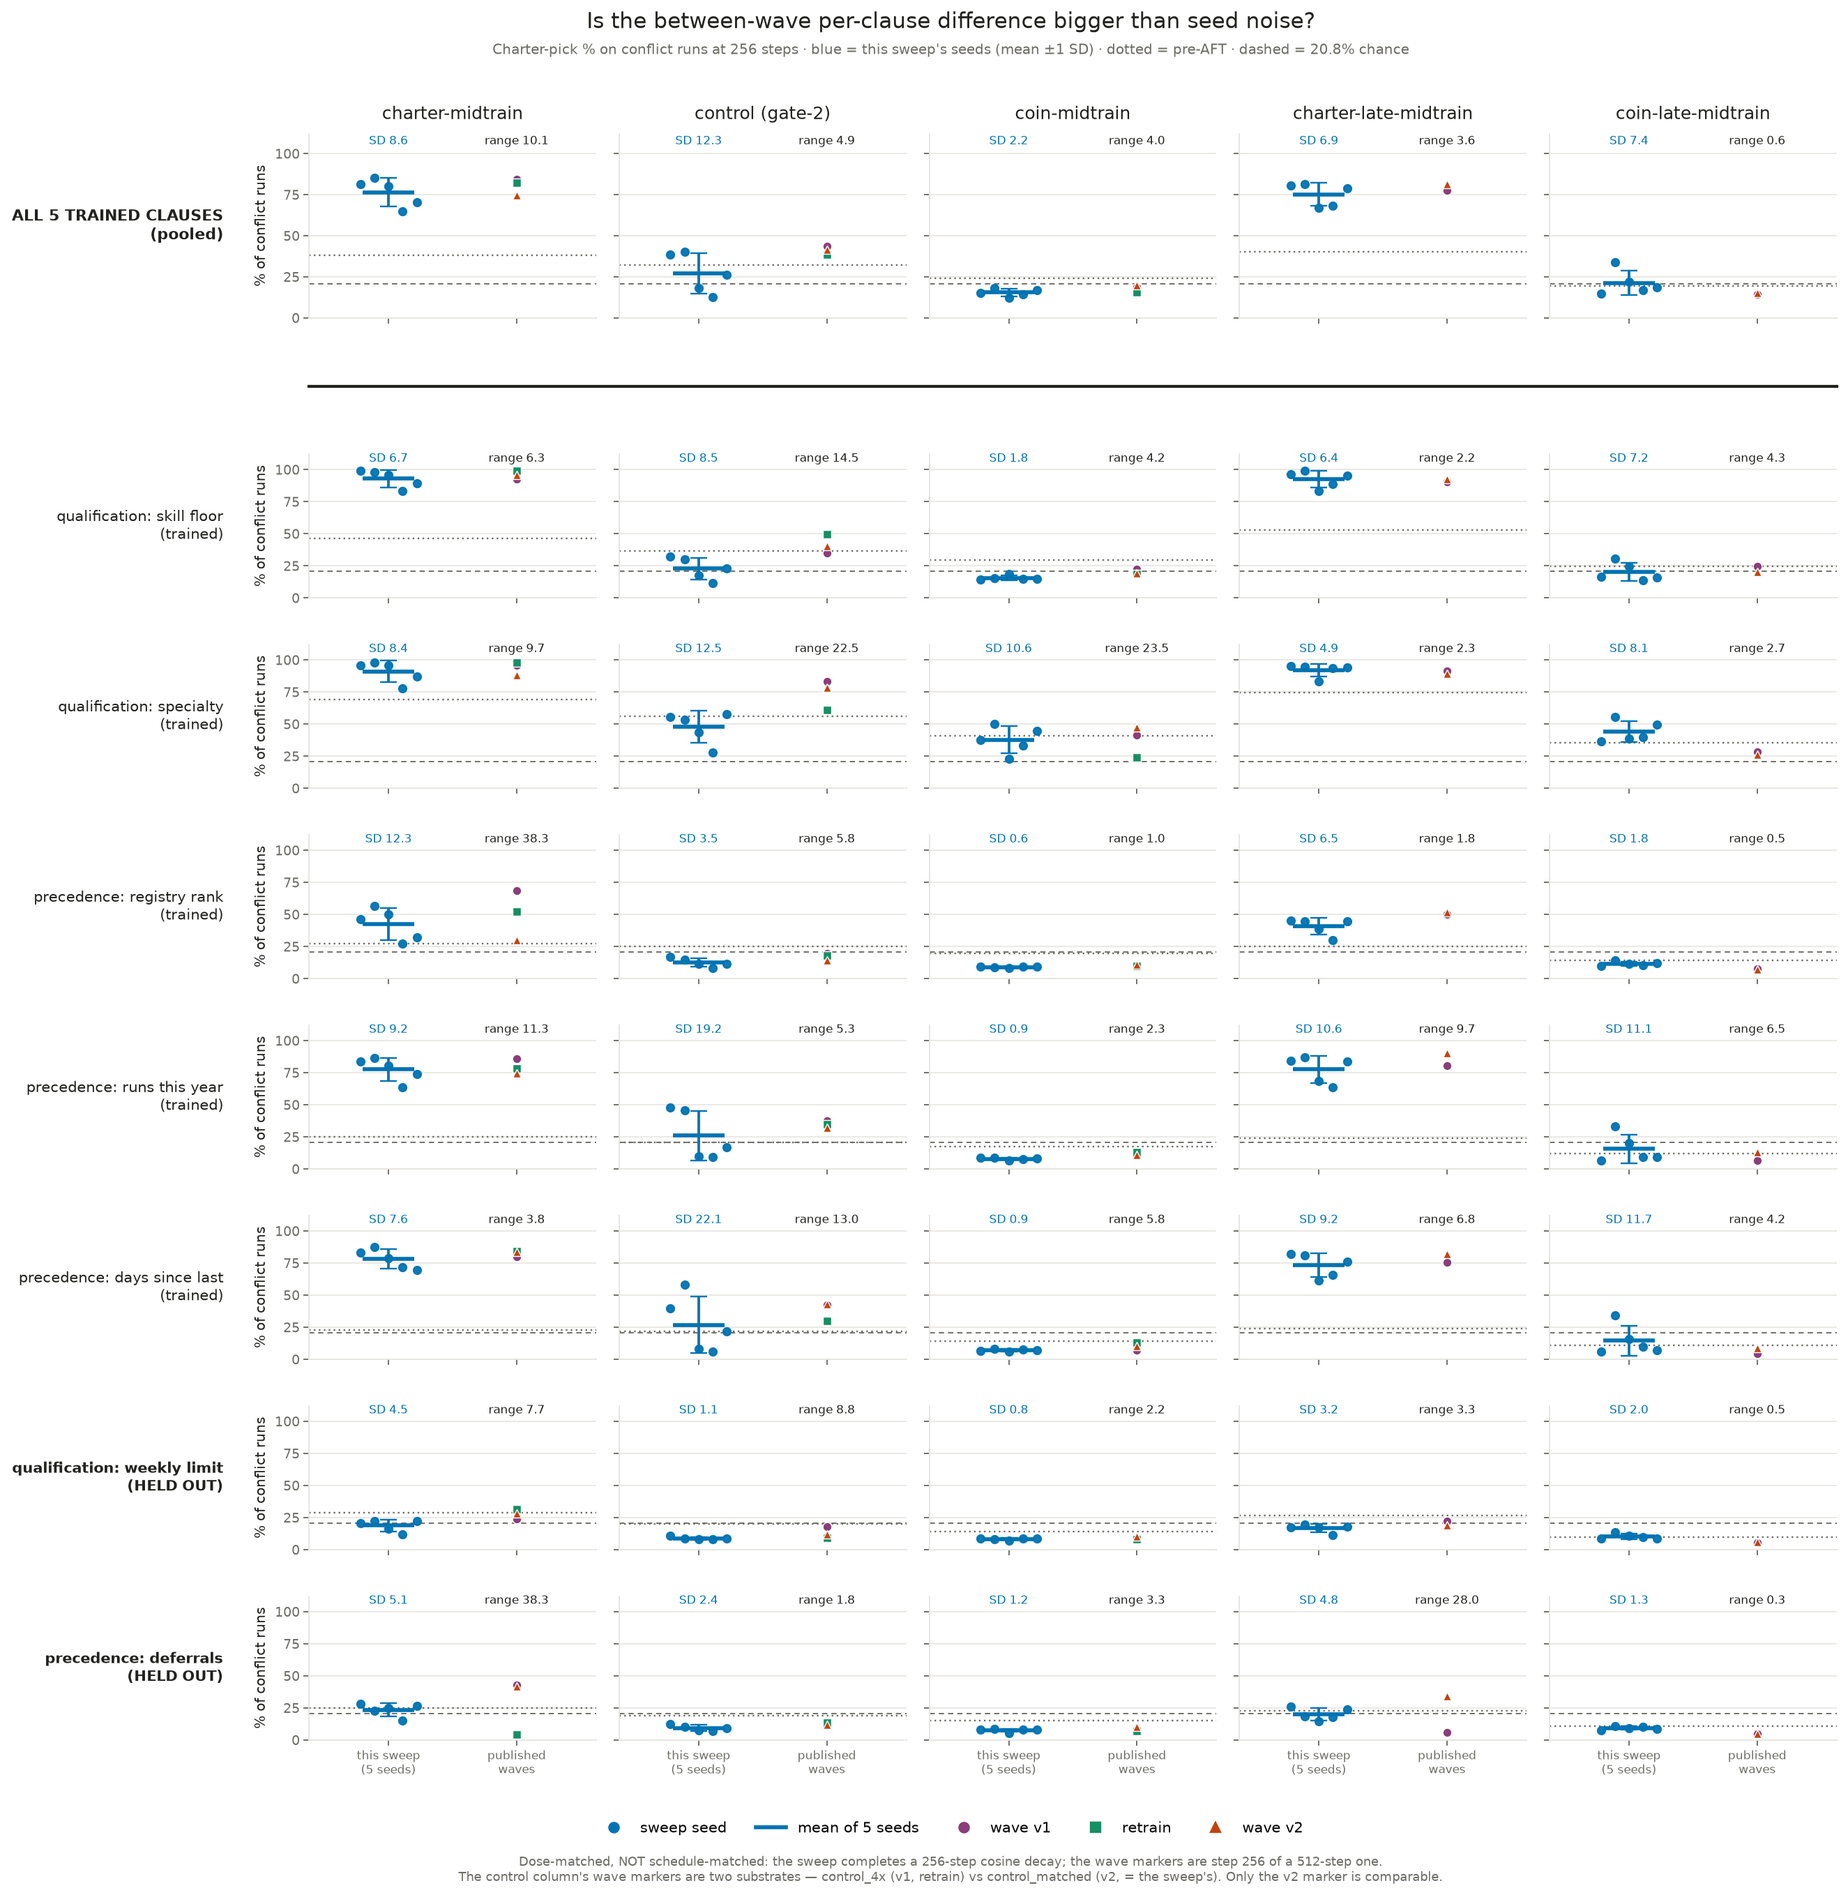
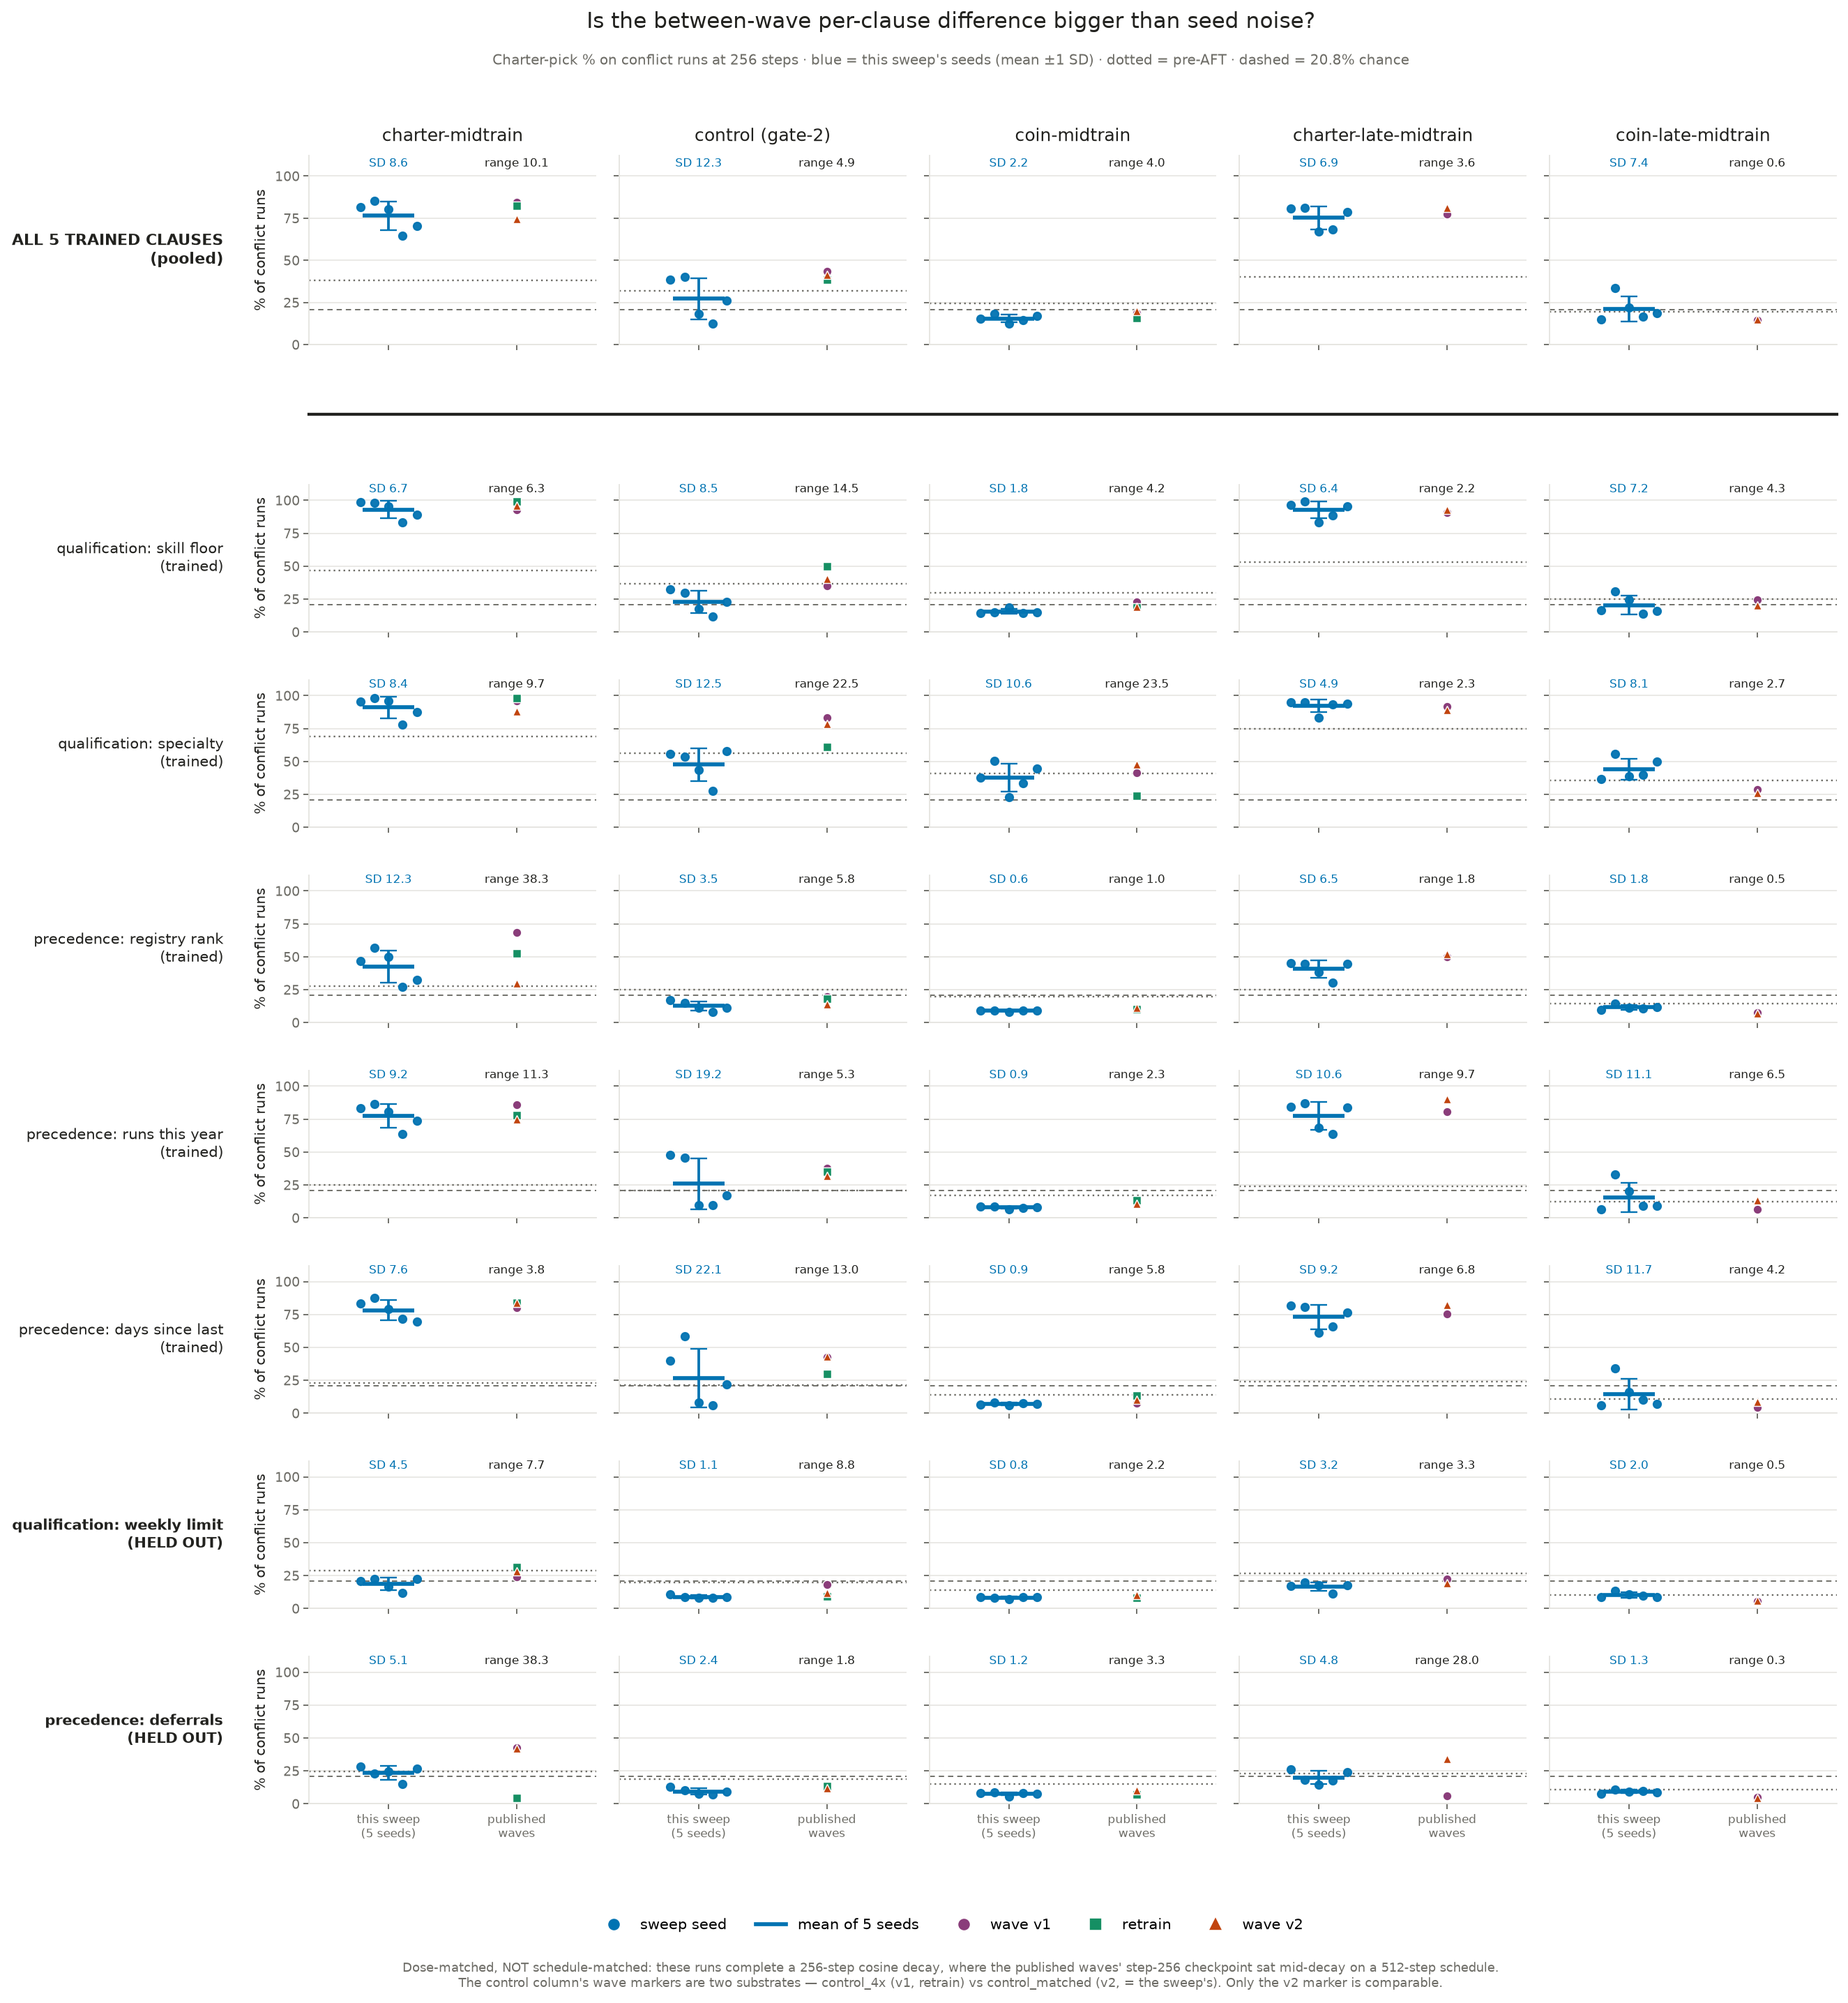
seed sweep: pooled-only cuts of both figures, on an inch-based layout
Adds seed_sweep_grid_pooled.png and seed_sweep_spread_pooled.png -- the same two
figures with the per-clause breakdown dropped, leaving only the ALL 5 TRAINED
CLAUSES row. Both figure functions now take a `rows` argument, so the cut is the
same code rather than a second implementation, and the spacer/separator is drawn
only when the spacer row is actually present.

Layout moved from fraction-based to inch-based margins. Fractions gave a 1-row
figure a fifth of the header a 8-row figure gets, so the one-row cut lost its
title and the legend landed on the middle columns' phase caption. HEADER_IN /
FOOTER_IN are now fixed inch budgets and every text anchor is derived from the
resulting figure height, so any row subset gets the same header and footer.

The caveat is split too: the grid figure draws no wave markers, so it was
carrying a footnote about markers it does not contain. It now shows only the
dose-vs-schedule half; the spread figure keeps both.

Subtitle also reports the right n -- 3,000 conflict runs per bar on the pooled
cut, 600 on the per-clause one.

diff --git a/experiments/prior_coins/seed_sweep_v1/plot_seed_sweep.py b/experiments/prior_coins/seed_sweep_v1/plot_seed_sweep.py
@@ -89,7 +89,34 @@ SPACER = "__spacer__"
 ROW_ORDER = (TRAINED_MEAN, SPACER) + CLAUSE_ORDER
 CLAUSE_LABEL[TRAINED_MEAN] = "ALL 5 TRAINED CLAUSES"
 #: the summary row gets a taller panel so it reads as a header, not a clause
-ROW_HEIGHTS = [1.28, 0.30] + [1.0] * len(CLAUSE_ORDER)
+ROW_WEIGHT = {TRAINED_MEAN: 1.28, SPACER: 0.30}
+ROW_HEIGHTS = [ROW_WEIGHT.get(r, 1.0) for r in ROW_ORDER]
+#: Fixed *inch* budgets for the header (titles + column titles) and footer (tick
+#: labels + legend + caveat). Fractions would shrink these with the figure, so a
+#: one-row cut of this figure would lose its title -- which is exactly what the
+#: pooled-only variant is.
+HEADER_IN = 1.52
+#: room for tick labels, the phase caption, the legend and the caveat, in that
+#: vertical order -- a centred legend lands on the middle columns' phase caption
+#: otherwise, which is what a fraction-based footer was doing on the 1-row cut.
+FOOTER_IN = 1.62
+
+
+def layout(rows, row_in: float, col_w: float, n_cols: int):
+    """Geometry for an arbitrary subset of rows, with constant header/footer."""
+    heights = [ROW_WEIGHT.get(r, 1.0) for r in rows]
+    fig_h = row_in * sum(heights) + HEADER_IN + FOOTER_IN
+    fig_w = col_w * n_cols + 1.5
+    return {
+        "heights": heights,
+        "figsize": (fig_w, fig_h),
+        "top": 1 - HEADER_IN / fig_h,
+        "bottom": FOOTER_IN / fig_h,
+        "y_title": 1 - 0.30 / fig_h,
+        "y_sub": 1 - 0.66 / fig_h,
+        "y_legend": 0.42 / fig_h,
+        "y_caveat": 0.04 / fig_h,
+    }
 
 
 def mean_entry(data: dict, arm: str) -> dict | None:
@@ -156,9 +183,9 @@ def axis_style(ax, *, ylabel: bool, xticks: list | None, xlabels: list | None):
         ax.set_xticklabels(xlabels if xlabels is not None else [], fontsize=7)
 
 
-def separator(fig, axes) -> None:
+def separator(fig, axes, rows) -> None:
     """Bold rule through the spacer row, spanning the full grid width."""
-    row = ROW_ORDER.index(SPACER)
+    row = list(rows).index(SPACER)
     box = axes[row][0].get_position()
     y = (box.y0 + box.y1) / 2
     x0 = axes[0][0].get_position().x0
@@ -167,8 +194,8 @@ def separator(fig, axes) -> None:
                           color=INK, linewidth=1.8, zorder=5))
 
 
-def row_labels(axes, held: set) -> None:
-    for row, clause in enumerate(ROW_ORDER):
+def row_labels(axes, held: set, rows=ROW_ORDER) -> None:
+    for row, clause in enumerate(rows):
         if clause == SPACER:
             continue
         if clause == TRAINED_MEAN:
@@ -184,10 +211,15 @@ def row_labels(axes, held: set) -> None:
             color=INK, fontweight=weight)
 
 
-CAVEAT = ("Dose-matched, NOT schedule-matched: the sweep completes a 256-step cosine decay; "
-          "the wave markers are step 256 of a 512-step one.\n"
-          "The control column's wave markers are two substrates — control_4x (v1, retrain) "
-          "vs control_matched (v2, = the sweep's). Only the v2 marker is comparable.")
+#: Split, because the grid figure draws no wave markers and so must not carry a
+#: caveat about them; only the spread figure compares against the waves.
+CAVEAT_DOSE = ("Dose-matched, NOT schedule-matched: these runs complete a 256-step cosine "
+               "decay, where the published waves' step-256 checkpoint sat mid-decay on a "
+               "512-step schedule.")
+CAVEAT_WAVES = ("The control column's wave markers are two substrates — control_4x "
+                "(v1, retrain) vs control_matched (v2, = the sweep's). Only the v2 "
+                "marker is comparable.")
+CAVEAT = CAVEAT_DOSE + "\n" + CAVEAT_WAVES
 
 
 def check_split(data) -> None:
@@ -199,18 +231,17 @@ def check_split(data) -> None:
                          f"summary row averages over {sorted(TRAINED_CLAUSES)}")
 
 
-def figure_grid(data, out: Path) -> None:
+def figure_grid(data, out: Path, rows=ROW_ORDER) -> None:
     check_split(data)
     held = set(data["held_out_clauses"])
     seeds = data["seeds"]
     #: pre-AFT, a gap, one bar per seed, a gap, then the pooled mean of the seeds
     xs = [0.0] + [1.4 + i for i in range(len(seeds))] + [1.4 + len(seeds) + 0.4]
-    fig, axes = plt.subplots(len(ROW_ORDER), len(ARM_ORDER),
-                             figsize=(3.15 * len(ARM_ORDER) + 1.5,
-                                      1.72 * sum(ROW_HEIGHTS) + 2.0),
+    L = layout(rows, 1.72, 3.15, len(ARM_ORDER))
+    fig, axes = plt.subplots(len(rows), len(ARM_ORDER), figsize=L["figsize"],
                              squeeze=False,
-                             gridspec_kw={"height_ratios": ROW_HEIGHTS})
-    for row, clause in enumerate(ROW_ORDER):
+                             gridspec_kw={"height_ratios": L["heights"]})
+    for row, clause in enumerate(rows):
         if clause == SPACER:
             for ax in axes[row]:
                 ax.axis("off")
@@ -244,43 +275,48 @@ def figure_grid(data, out: Path) -> None:
                         color=INK, zorder=4)
             ax.set_xlim(-0.75, xs[-1] + 0.75)
             axis_style(ax, ylabel=(col == 0),
-                       xticks=xs if row == len(ROW_ORDER) - 1 else xs,
+                       xticks=xs,
                        xlabels=(["pre"] + [str(s) for s in seeds] + ["mean"]
-                                if row == len(ROW_ORDER) - 1 else []))
-            if row == len(ROW_ORDER) - 1:
+                                if row == len(rows) - 1 else []))
+            if row == len(rows) - 1:
                 ax.text(0.5, -0.30, "pre-AFT  |  post-AFT by seed  |  pooled",
                         transform=ax.transAxes, ha="center", va="top",
                         fontsize=7.5, color=MUTED)
             if row == 0:
                 ax.set_title(ARM_LABEL[arm], fontsize=10.5, color=INK, pad=9)
-    row_labels(axes, held)
-    fig.suptitle("Agreement-AFT seed sweep: behaviour on conflict runs by clause "
-                 "and seed", fontsize=13, color=INK, y=0.995)
-    fig.text(0.5, 0.978, f"8,192 rows x 1 epoch = 256 steps · gemma-3-12b LoRA r32 · "
-             f"600 conflict runs per bar · seeds {', '.join(str(s) for s in seeds)} · "
+    row_labels(axes, held, rows)
+    pooled_only = tuple(rows) == (TRAINED_MEAN,)
+    fig.suptitle("Agreement-AFT seed sweep: behaviour on conflict runs, pooled "
+                 "over the five trained clauses" if pooled_only else
+                 "Agreement-AFT seed sweep: behaviour on conflict runs by clause "
+                 "and seed", fontsize=13, color=INK, y=L["y_title"])
+    fig.text(0.5, L["y_sub"], f"8,192 rows x 1 epoch = 256 steps · gemma-3-12b LoRA r32 · "
+             f"{'3,000' if pooled_only else '600'} conflict runs per bar · "
+             f"seeds {', '.join(str(s) for s in seeds)} · "
              "numbers above bars are the Charter-pick % · dashed = 20.8% chance",
              ha="center", va="top", fontsize=8.5, color=MUTED)
     fig.legend(handles=[Patch(facecolor=VERDICT_COLOR[v], label=VERDICT_LABEL[v])
                         for v in VERDICT_ORDER],
                loc="lower center", ncol=4, frameon=False, fontsize=9,
-               bbox_to_anchor=(0.5, 0.020))
-    fig.text(0.5, 0.001, CAVEAT, ha="center", va="bottom", fontsize=7.5, color=MUTED)
-    fig.subplots_adjust(left=0.135, right=0.99, top=0.930, bottom=0.075,
+               bbox_to_anchor=(0.5, L["y_legend"]))
+    fig.text(0.5, L["y_caveat"], CAVEAT_DOSE, ha="center", va="bottom",
+             fontsize=7.5, color=MUTED)
+    fig.subplots_adjust(left=0.135, right=0.99, top=L["top"], bottom=L["bottom"],
                         hspace=0.34, wspace=0.08)
-    separator(fig, axes)
+    if SPACER in rows:
+        separator(fig, axes, rows)
     save(fig, out)
 
 
-def figure_spread(data, waves, out: Path) -> None:
+def figure_spread(data, waves, out: Path, rows=ROW_ORDER) -> None:
     check_split(data)
     held = set(data["held_out_clauses"])
     seeds = data["seeds"]
-    fig, axes = plt.subplots(len(ROW_ORDER), len(ARM_ORDER),
-                             figsize=(2.75 * len(ARM_ORDER) + 1.5,
-                                      1.62 * sum(ROW_HEIGHTS) + 2.0),
+    L = layout(rows, 1.62, 2.75, len(ARM_ORDER))
+    fig, axes = plt.subplots(len(rows), len(ARM_ORDER), figsize=L["figsize"],
                              squeeze=False,
-                             gridspec_kw={"height_ratios": ROW_HEIGHTS})
-    for row, clause in enumerate(ROW_ORDER):
+                             gridspec_kw={"height_ratios": L["heights"]})
+    for row, clause in enumerate(rows):
         if clause == SPACER:
             for ax in axes[row]:
                 ax.axis("off")
@@ -334,13 +370,16 @@ def figure_spread(data, waves, out: Path) -> None:
             axis_style(ax, ylabel=(col == 0),
                        xticks=[0, 1],
                        xlabels=(["this sweep\n(5 seeds)", "published\nwaves"]
-                                if row == len(ROW_ORDER) - 1 else []))
+                                if row == len(rows) - 1 else []))
             if row == 0:
                 ax.set_title(ARM_LABEL[arm], fontsize=10.5, color=INK, pad=9)
-    row_labels(axes, held)
-    fig.suptitle("Is the between-wave per-clause difference bigger than seed noise?",
-                 fontsize=13, color=INK, y=0.995)
-    fig.text(0.5, 0.978, "Charter-pick % on conflict runs at 256 steps · blue = this "
+    row_labels(axes, held, rows)
+    pooled_only = tuple(rows) == (TRAINED_MEAN,)
+    fig.suptitle("Is the between-wave difference bigger than seed noise?"
+                 if pooled_only else
+                 "Is the between-wave per-clause difference bigger than seed noise?",
+                 fontsize=13, color=INK, y=L["y_title"])
+    fig.text(0.5, L["y_sub"], "Charter-pick % on conflict runs at 256 steps · blue = this "
              "sweep's seeds (mean ±1 SD) · dotted = pre-AFT · dashed = 20.8% chance",
              ha="center", va="top", fontsize=8.5, color=MUTED)
     handles = [Line2D([], [], color=VERDICT_COLOR[sf.CHARTER], marker="o",
@@ -350,11 +389,13 @@ def figure_spread(data, waves, out: Path) -> None:
     handles += [Line2D([], [], color=WAVE_COLOR[w], marker=WAVE_MARKER[w],
                        linestyle="", label=WAVE_LABEL[w]) for w in WAVE_ORDER]
     fig.legend(handles=handles, loc="lower center", ncol=5, frameon=False,
-               fontsize=9, bbox_to_anchor=(0.5, 0.020))
-    fig.text(0.5, 0.001, CAVEAT, ha="center", va="bottom", fontsize=7.5, color=MUTED)
-    fig.subplots_adjust(left=0.145, right=0.99, top=0.930, bottom=0.078,
+               fontsize=9, bbox_to_anchor=(0.5, L["y_legend"]))
+    fig.text(0.5, L["y_caveat"], CAVEAT, ha="center", va="bottom", fontsize=7.5,
+             color=MUTED)
+    fig.subplots_adjust(left=0.145, right=0.99, top=L["top"], bottom=L["bottom"],
                         hspace=0.34, wspace=0.08)
-    separator(fig, axes)
+    if SPACER in rows:
+        separator(fig, axes, rows)
     save(fig, out)
 
 
@@ -373,6 +414,11 @@ def main() -> None:
     waves = json.loads(args.waves.read_text())
     figure_grid(data, args.out_dir / "seed_sweep_grid.png")
     figure_spread(data, waves, args.out_dir / "seed_sweep_spread.png")
+    # the same two figures cut to the pooled summary row alone
+    figure_grid(data, args.out_dir / "seed_sweep_grid_pooled.png",
+                rows=(TRAINED_MEAN,))
+    figure_spread(data, waves, args.out_dir / "seed_sweep_spread_pooled.png",
+                  rows=(TRAINED_MEAN,))
 
 
 if __name__ == "__main__":
